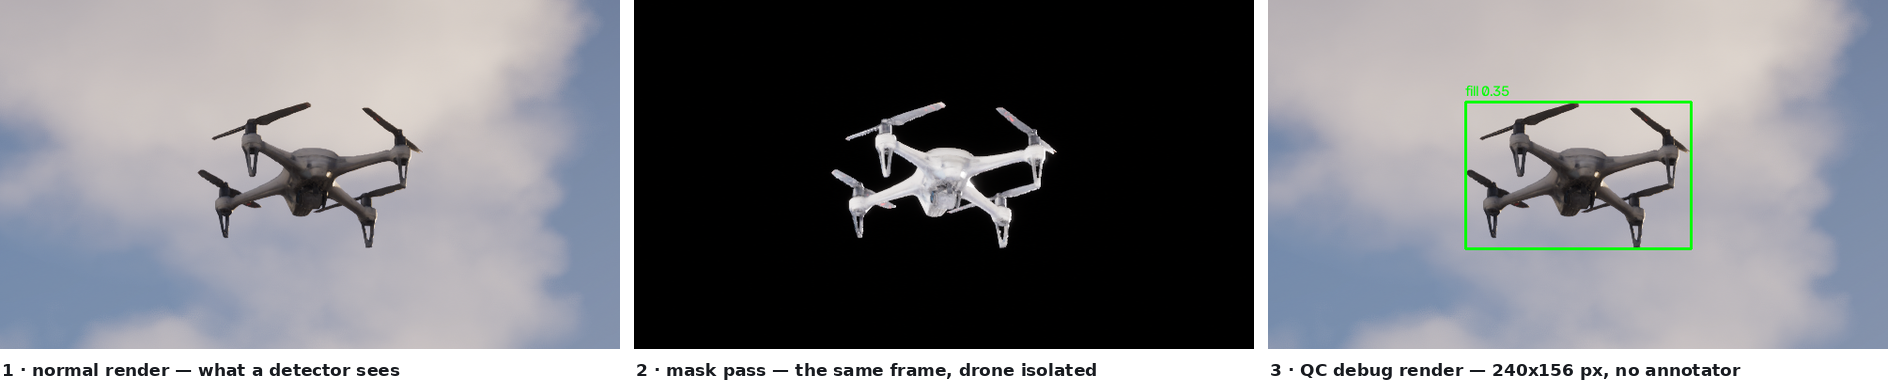
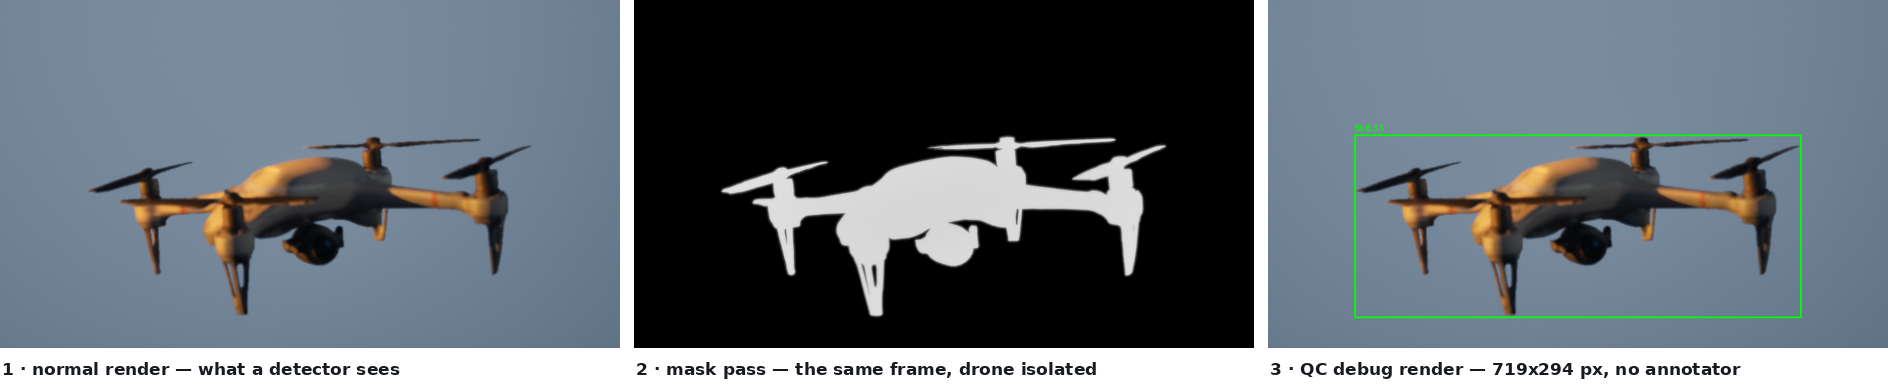
Regenerate the demo images from a post-fix corpus run
The committed figures were made on Jul 25 from a 148-frame local run under the
110 m endpoint, which predates the TAA fix, instance grouping, the mask
threshold at 32, and the 400 m cap. They showed output from a pipeline that no
longer exists, and the prose was pinned to that run's numbers.

Regenerated from run_20260726_044311_1120, a recession clip from the first
corpus. It was chosen for having the widest scale span of the 35 recession
clips and no QC flags at all: the drone crosses 719x294 px down to 17x6 within
the run, forty-fold in linear size and two thousand-fold in area, against the
old run's roughly ten-fold. The strip crop widens to 820 px so the near frame's
box fits inside the panel instead of running off both edges.

The hero frame's fill ratio is still 0.35, so the sentence explaining fill
ratio needed no change.

The README now names the run the figures came from. Nothing previously
recorded that, which is why it took a diff of commit dates against the
pipeline's history to notice the images had gone stale.

diff --git a/README.md b/README.md
@@ -14,14 +14,17 @@ mask fill ratio — a quadcopter is mostly air between its arms — and a drop i
 it is one of the signals QC flags for review. The third panel is the
 pipeline's own debug render, not an illustration.
 
-![The same flight at four distances, from a 240x156 box down to 26x15](assets/scale-strip.png)
+![The same flight at four distances, from a 719x294 box down to 17x6](assets/scale-strip.png)
 
-One run also spans an order of magnitude of object scale as the drone flies
-away. That variation is what a detector needs and what is most tedious to
-collect and label by hand.
+A single run also carries the object from 719x294 px down to 17x6 as the drone
+flies away — forty-fold in linear size, two thousand-fold in area. That
+variation is what a detector needs and what is most tedious to collect and
+label by hand.
 
 Both images are generated from a converted run by
-[scripts/make_demo_assets.py](scripts/make_demo_assets.py).
+[scripts/make_demo_assets.py](scripts/make_demo_assets.py) — currently
+`run_20260726_044311_1120`. The run id is recorded here so it is possible to
+tell whether the figures still reflect what the pipeline produces.
 
 ## Architecture
 
